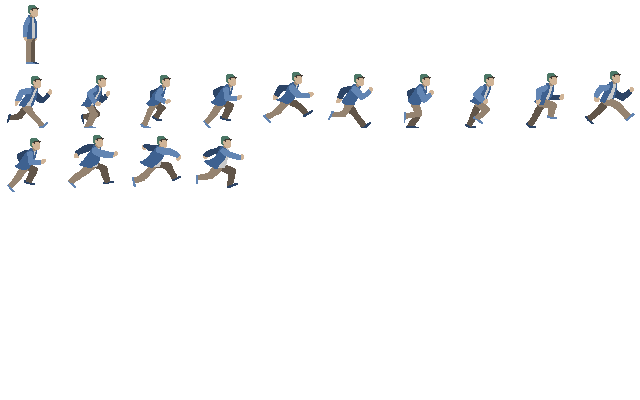
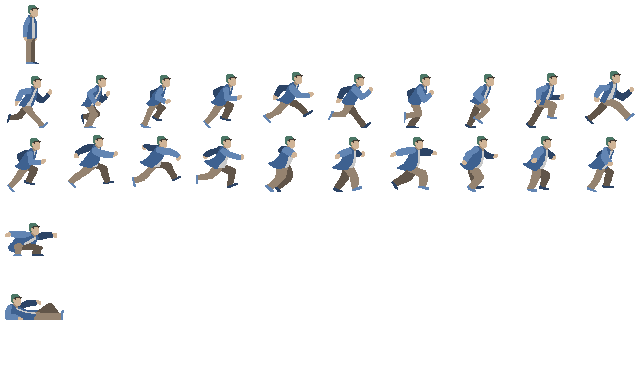
Streamlined the animation with the inclusion of an animation helper, also drew the timer on screen at all times. Also updated the jumping animation (probably still shitty), as well as duck and slide.

diff --git a/Late-To-Class/Late-To-Class/Player.cs b/Late-To-Class/Late-To-Class/Player.cs
@@ -41,15 +41,8 @@ namespace Late_To_Class
 
         //these variables handle animation of the player
         Rectangle sourceRec; //this rectangle defines the portion of the texture it should grab.
-        double fpsRun; //how many frames of the run animation play per second
-        double fpsJump;
-        double timePerFrameRun; //how much time per frame (1/fpsRun)
-        double timePerFrameJump;
+        Dictionary<string, AnimationHelper> allAnims; //holds all animationhelpers for player
         double timeCounter; //counts ticks of the gametime
-        int currentFrameRun;
-        int currentFrameJump;
-        int framesRun; //how many frames are in the run animation
-        int framesJump; //how many frames are in the jump animation
 
         public Texture2D Tex
         {
@@ -97,17 +90,9 @@ namespace Late_To_Class
             powerUpKey = GameControls.Instance.powerUpKey;
 
             //animation stuff
-            fpsRun = Math.Pow(speed, 5.0);
-            fpsJump = 5;
-            timePerFrameRun = 1 / fpsRun;
-            timePerFrameJump = 1 / fpsJump;
-            currentFrameRun = 0;
-            currentFrameJump = 0;
-            framesRun = 10;
-            framesJump = 4;
-
-
-
+            allAnims = new Dictionary<string, AnimationHelper>();
+            allAnims.Add("run", new AnimationHelper(5, 10));
+            allAnims.Add("jump", new AnimationHelper(12, 10));
         }
 
         public void Load(ContentManager Content)
@@ -123,7 +108,7 @@ namespace Late_To_Class
             switch (pState)
             {
                 case playerStates.Run:
-                    UpdateRunAnimation(gameTime);
+                    UpdateAnimation(gameTime, allAnims["run"]);
                     if (kbState.IsKeyDown(leftKey) && (dirRight == true || dirRight == false)) //running left
                     {
                         dirRight = false;
@@ -257,7 +242,7 @@ namespace Late_To_Class
                     break;
 
                 case playerStates.Jump: //http://flatformer.blogspot.com/2010/02/making-character-jump-in-xnac-basic.html
-                    UpdateJumpAnimation(gameTime);
+                    UpdateAnimation(gameTime, allAnims["jump"]);
                     if (jumping == true)
                     {
                         pos.Y += (int)jumpHeight;
@@ -314,12 +299,12 @@ namespace Late_To_Class
                             //this determines if the player had any speed during the jump, and if so to put them back in the running state as opposed to the standing state
                             if (speed > 0)
                             {
-                                currentFrameJump = 0; //resets jump animation
+                                allAnims["jump"].CurrentFrame = 0; //resets jump animation
                                 pState = playerStates.Run;
                             }
                             else
                             {
-                                currentFrameJump = 0; //resets jump animation
+                                allAnims["jump"].CurrentFrame = 0; //resets jump animation
                                 pState = playerStates.Stand;
                             }
                         }
@@ -463,8 +448,8 @@ namespace Late_To_Class
                         
             }
 
-            fpsRun = speed * 1.8;
-            timePerFrameRun = 1 / fpsRun; //this makes it so that when the player is just starting to run, his animation follows the speed and doesn't look too fast.
+            allAnims["run"].FPS = (speed + 1) * 1.8;
+            allAnims["run"].UpdateSPF(); //this makes it so that when the player is just starting to run, his animation follows the speed and doesn't look too fast.
         }
 
         public void Draw(SpriteBatch playerSprite)
@@ -503,7 +488,7 @@ namespace Late_To_Class
 
         public void DrawRun(SpriteBatch spriteBatch)
         {
-            sourceRec = new Rectangle(currentFrameRun * playerWidth, playerHeight, playerWidth, playerHeight);
+            sourceRec = new Rectangle(allAnims["run"].CurrentFrame * playerWidth, playerHeight, playerWidth, playerHeight);
 
             if (dirRight)
                 spriteBatch.Draw(tex, pos, sourceRec, Color.White, 0.0f, Vector2.Zero, SpriteEffects.None, 0.0f);
@@ -513,7 +498,7 @@ namespace Late_To_Class
 
         public void DrawJump(SpriteBatch spriteBatch)
         {
-            sourceRec = new Rectangle(currentFrameJump * playerWidth, playerHeight * 2, playerWidth, playerHeight);
+            sourceRec = new Rectangle(allAnims["jump"].CurrentFrame * playerWidth, playerHeight * 2, playerWidth, playerHeight);
 
             if (dirRight)
                 spriteBatch.Draw(tex, pos, sourceRec, Color.White, 0.0f, Vector2.Zero, SpriteEffects.None, 0.0f);
@@ -522,7 +507,7 @@ namespace Late_To_Class
         }
         public void DrawDuck(SpriteBatch spriteBatch)
         {
-            sourceRec = new Rectangle(0, 0, playerWidth, playerHeight/2);
+            sourceRec = new Rectangle(0, playerHeight * 3, playerWidth, playerHeight);
 
             if (dirRight)
                 spriteBatch.Draw(tex, pos, sourceRec, Color.White, 0.0f, Vector2.Zero, SpriteEffects.None, 0.0f);
@@ -531,7 +516,7 @@ namespace Late_To_Class
         }
         public void DrawSlide(SpriteBatch spriteBatch)
         {
-            sourceRec = new Rectangle(0, 0, playerWidth, playerHeight);
+            sourceRec = new Rectangle(0, playerHeight * 4, playerWidth, playerHeight);
 
             if (dirRight)
                 spriteBatch.Draw(tex, pos, sourceRec, Color.White, 0.0f, Vector2.Zero, SpriteEffects.None, 0.0f);
@@ -539,35 +524,22 @@ namespace Late_To_Class
                 spriteBatch.Draw(tex, pos, sourceRec, Color.White, 0.0f, Vector2.Zero, SpriteEffects.FlipHorizontally, 0.0f);
         }
 
-        public void UpdateRunAnimation(GameTime gameTime)
+        public void UpdateAnimation(GameTime gameTime, AnimationHelper ah)
         {
             timeCounter += gameTime.ElapsedGameTime.TotalSeconds;
 
-            if (timeCounter >= timePerFrameRun)
+            if (timeCounter >= ah.SPF)
             {
-                currentFrameRun++;
+                ah.CurrentFrame ++;
 
-                if (currentFrameRun >= framesRun)
+                if (ah.CurrentFrame >= ah.TotalFrames)
                 {
-                    currentFrameRun = 0;
+                    ah.CurrentFrame = 0;
                 }
 
-                timeCounter -= timePerFrameRun;
+                timeCounter -= ah.SPF;
             }
         }
-
-        public void UpdateJumpAnimation(GameTime gameTime)
-        {
-            timeCounter += gameTime.ElapsedGameTime.TotalSeconds;
-
-            if (timeCounter >= timePerFrameJump)
-            {
-                if(currentFrameJump < framesJump - 1)
-                    currentFrameJump++;
-                timeCounter -= timePerFrameJump;
-            }
-        }
-
     }
 }
 

diff --git a/Late-To-Class/Late-To-Class/LevelManager.cs b/Late-To-Class/Late-To-Class/LevelManager.cs
@@ -13,6 +13,7 @@ namespace Late_To_Class
     {
         private static LevelManager instance = null;
         private Texture2D tileSheet;
+        private Texture2D timerBG; //looks like a blackboard, goes behind the timer
         private Camera camera;
         Point CameraOrigin;
         Player player;
@@ -40,7 +41,7 @@ namespace Late_To_Class
         /// <param name="player">passes in the player so each level handles it</param>
         public void LoadLevel(string level, string spawns, ContentManager Content, Viewport newViewport, Player player)
         {
-            tileSheet = Content.Load<Texture2D>("lvl1Tiles");
+            tileSheet = Content.Load<Texture2D>("lvl1Tiles.png");
             LevelBuilder.Instance.LoadMap(level);
             LevelBuilder.Instance.LoadSpawns(spawns);
             LevelBuilder.Instance.TileMaker(tileSheet);
@@ -61,6 +62,8 @@ namespace Late_To_Class
                 //Powers.CreateSpawn(powerUp);
             }
             dTimer = (LevelBuilder.Instance.MapSize.X * LevelBuilder.Instance.MapSize.Y) / difficulty * (1 / 1); //replace 1/1 with 1/level once multiple levels exist
+
+            timerBG = Content.Load<Texture2D>("timerBlackboard.png");
         }
 
 
@@ -90,11 +93,15 @@ namespace Late_To_Class
         /// <param name="font"></param>
         public void DrawLevel(SpriteBatch spriteBatch, Point screen, SpriteFont font)
         {
-
+            //this spritebatch will follow the player as per camera.Transform
             spriteBatch.Begin(SpriteSortMode.Deferred, BlendState.AlphaBlend, null, null, null, null, camera.Transform);
             LevelBuilder.Instance.Draw(spriteBatch, screen, CameraOrigin);
-            spriteBatch.DrawString(font, dTimer.ToString(), new Vector2(50, 50), Color.White);
             player.Draw(spriteBatch);
+            spriteBatch.End();
+            //this spritebatch will not follow the player, and will always be drawn where they say they'll be
+            spriteBatch.Begin();
+            spriteBatch.Draw(timerBG, new Rectangle(8, 13, 160, 80), Color.White);
+            spriteBatch.DrawString(font, dTimer.ToString(), new Vector2(20, 20), Color.White);
             spriteBatch.End();
         }
 

diff --git a/Late-To-Class/Late-To-Class/AnimationHelper.cs b/Late-To-Class/Late-To-Class/AnimationHelper.cs
@@ -1,0 +1,41 @@
+using System;
+using System.Collections.Generic;
+using System.Linq;
+using System.Text;
+
+namespace Late_To_Class
+{
+    /// <summary>
+    /// This holds all information needed to play through a looping animation. Each animation will have one
+    /// </summary>
+    public class AnimationHelper
+    {
+        double fps; //speed the animation runs at
+        double spf; // 1 / fps, the time it takes for one frame to pass
+        int currentFrame; //the current frame of the animation
+        int totalFrames; //the total number of frames in the animation
+
+        public double FPS { get { return fps; } set { fps = value; } }
+        public double SPF { get { return spf; } set { spf = value; } }
+        public int CurrentFrame { get { return currentFrame; } set { currentFrame = value; } }
+        public int TotalFrames { get { return totalFrames; } set { totalFrames = value; } }
+
+        /// <summary>
+        /// 
+        /// </summary>
+        /// <param name="fps">how fast the animation runs in frames per second</param>
+        /// <param name="totalFrames">the total number of frames in the animation</param>
+        public AnimationHelper(int fps, int totalFrames)
+        {
+            this.fps = fps;
+            this.totalFrames = totalFrames;
+            spf = 1.0 / fps;
+            currentFrame = 0;
+        }
+
+        public void UpdateSPF()
+        {
+            spf = 1 / fps;
+        }
+    }
+}

diff --git a/Late-To-Class/Late-To-Class/Game1.cs b/Late-To-Class/Late-To-Class/Game1.cs
@@ -120,7 +120,7 @@ namespace Late_To_Class
 
 
             //Game
-            //LevelManager.Instance.LoadLevel("Level1.txt", "Spawns.txt", Content, GraphicsDevice.Viewport, player);
+            LevelManager.Instance.LoadLevel("Level.txt", "SpawnAndCollision.txt", Content, GraphicsDevice.Viewport, player);
         }
 
         /// <summary>
@@ -242,7 +242,7 @@ namespace Late_To_Class
                     spriteBatch.End();
                     break;
                 case Scene.Game:
-                    GraphicsDevice.Clear(Color.IndianRed);
+                    GraphicsDevice.Clear(Color.DeepSkyBlue);
                     LevelManager.Instance.DrawLevel(spriteBatch, screen, font);
                     break;
                 case Scene.Paused:
